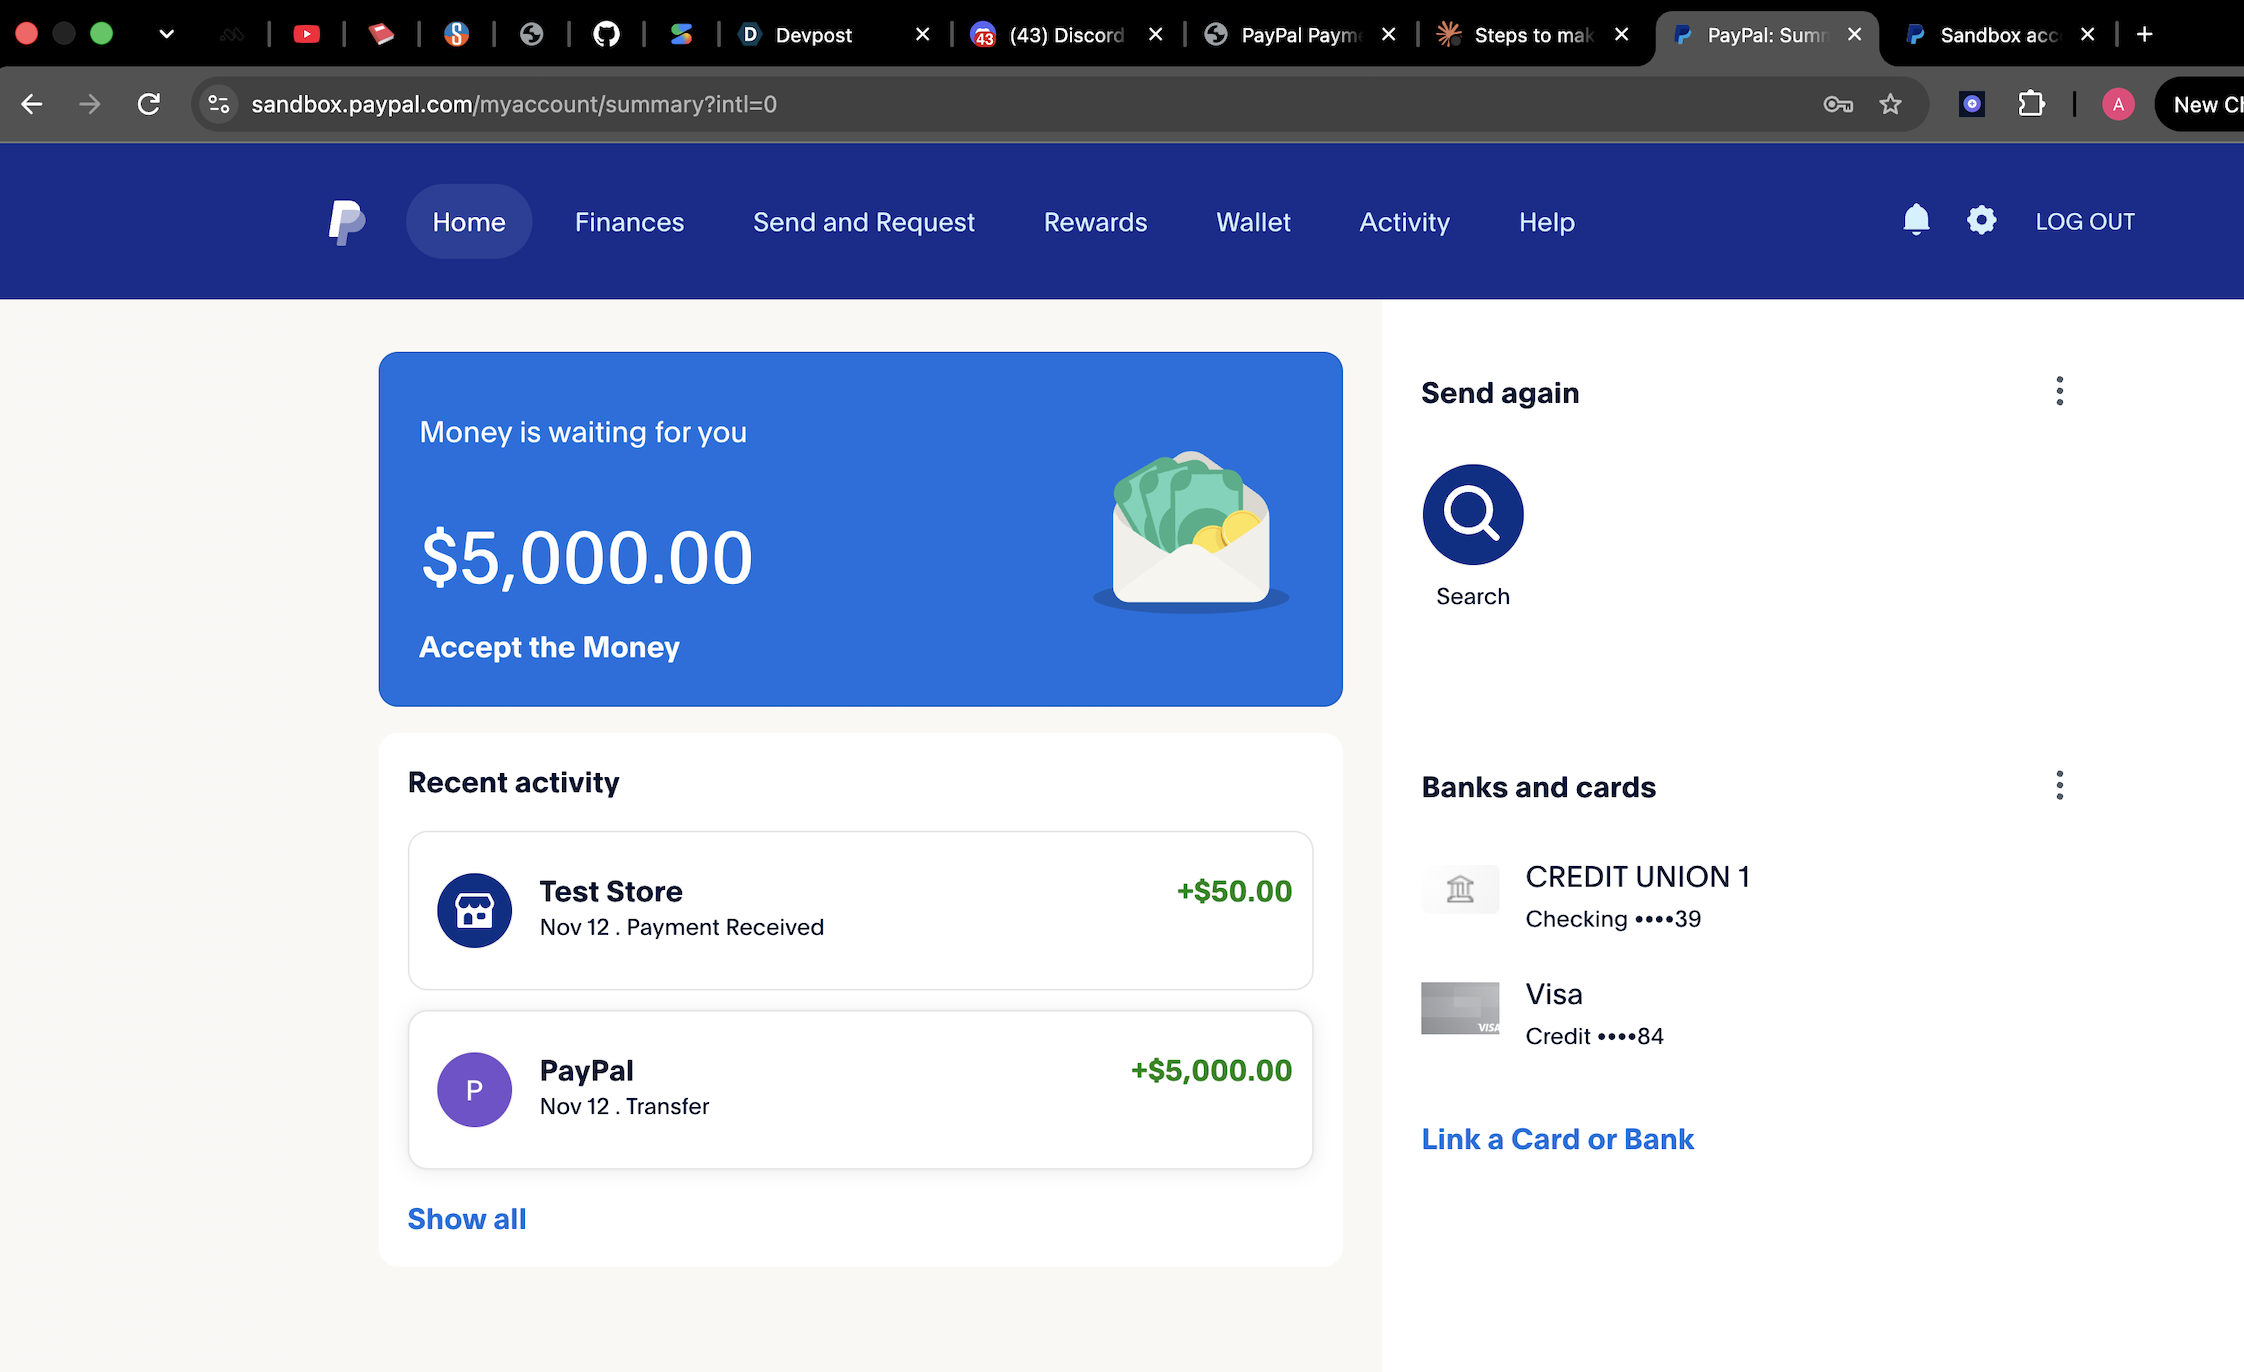
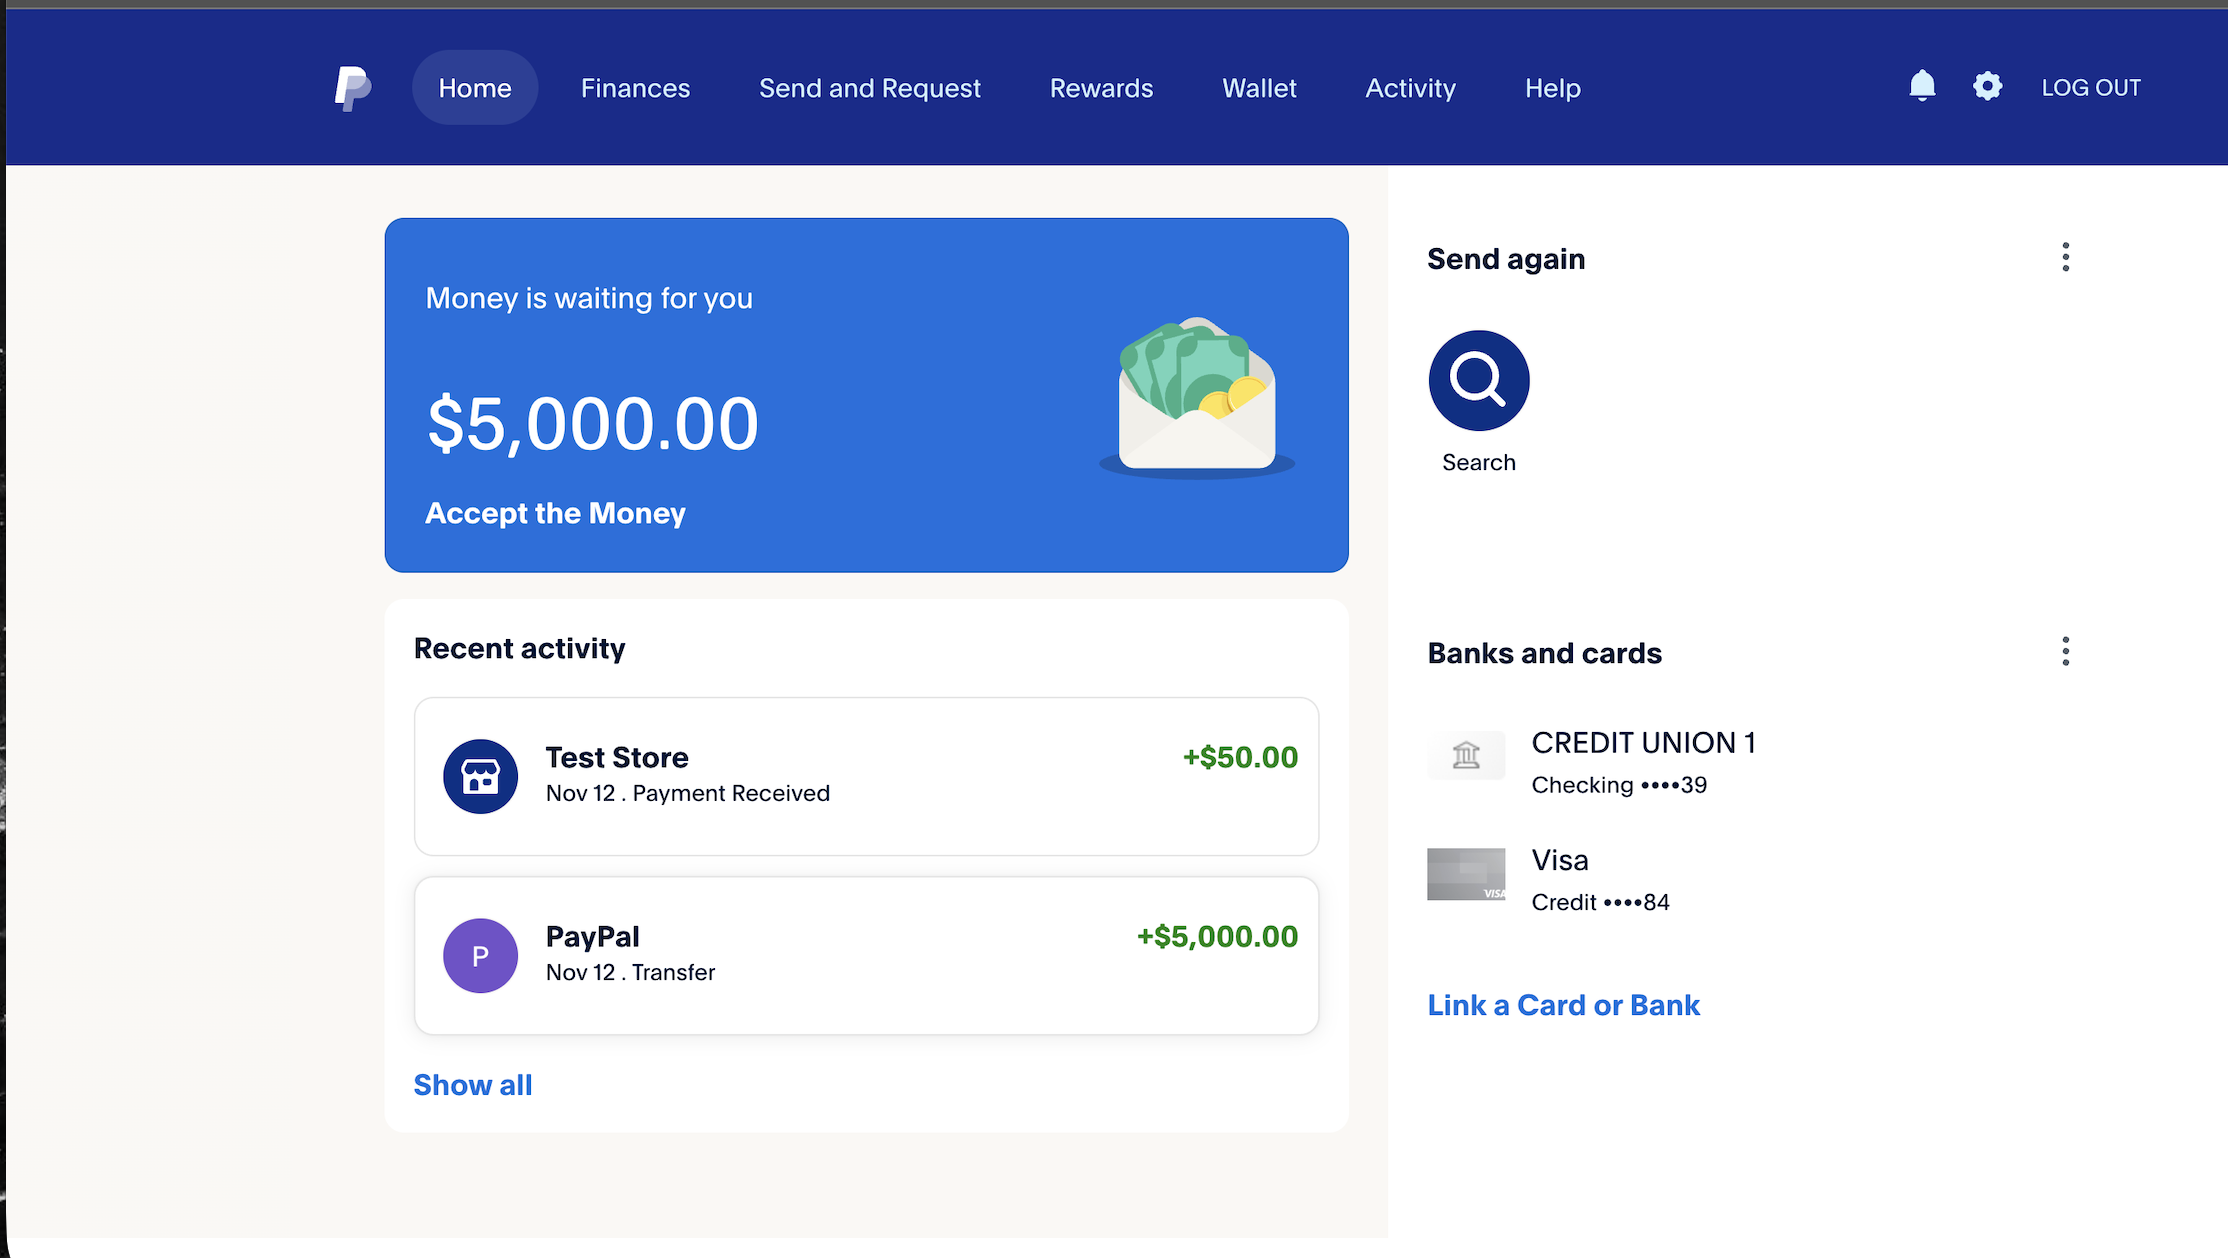
Update screenshots and README demo section

diff --git a/README.md b/README.md
@@ -4,9 +4,19 @@
 
 **Example:** `Pay Meera $50 and Arjun $75`
 
-![Payment received](screenshots/payment-received.png)
-![Payment received 2](screenshots/payment-received1.png)
-![Payment received 3](screenshots/payment-received2.png)
+## Demo
+
+**1. Paying one person:** `Pay Meera $50`
+
+![Paying Meera $50](screenshots/payment-received.png)
+
+**2. Paying two people in one message:** `Pay Meera $50 and Arjun $75`
+
+![Paying Meera $50 and Arjun $75 together](screenshots/payment-received1.png)
+
+**3. Arjun's account receiving $75**
+
+![Arjun receives $75](screenshots/payment-received2.png)
 
 ---
 
